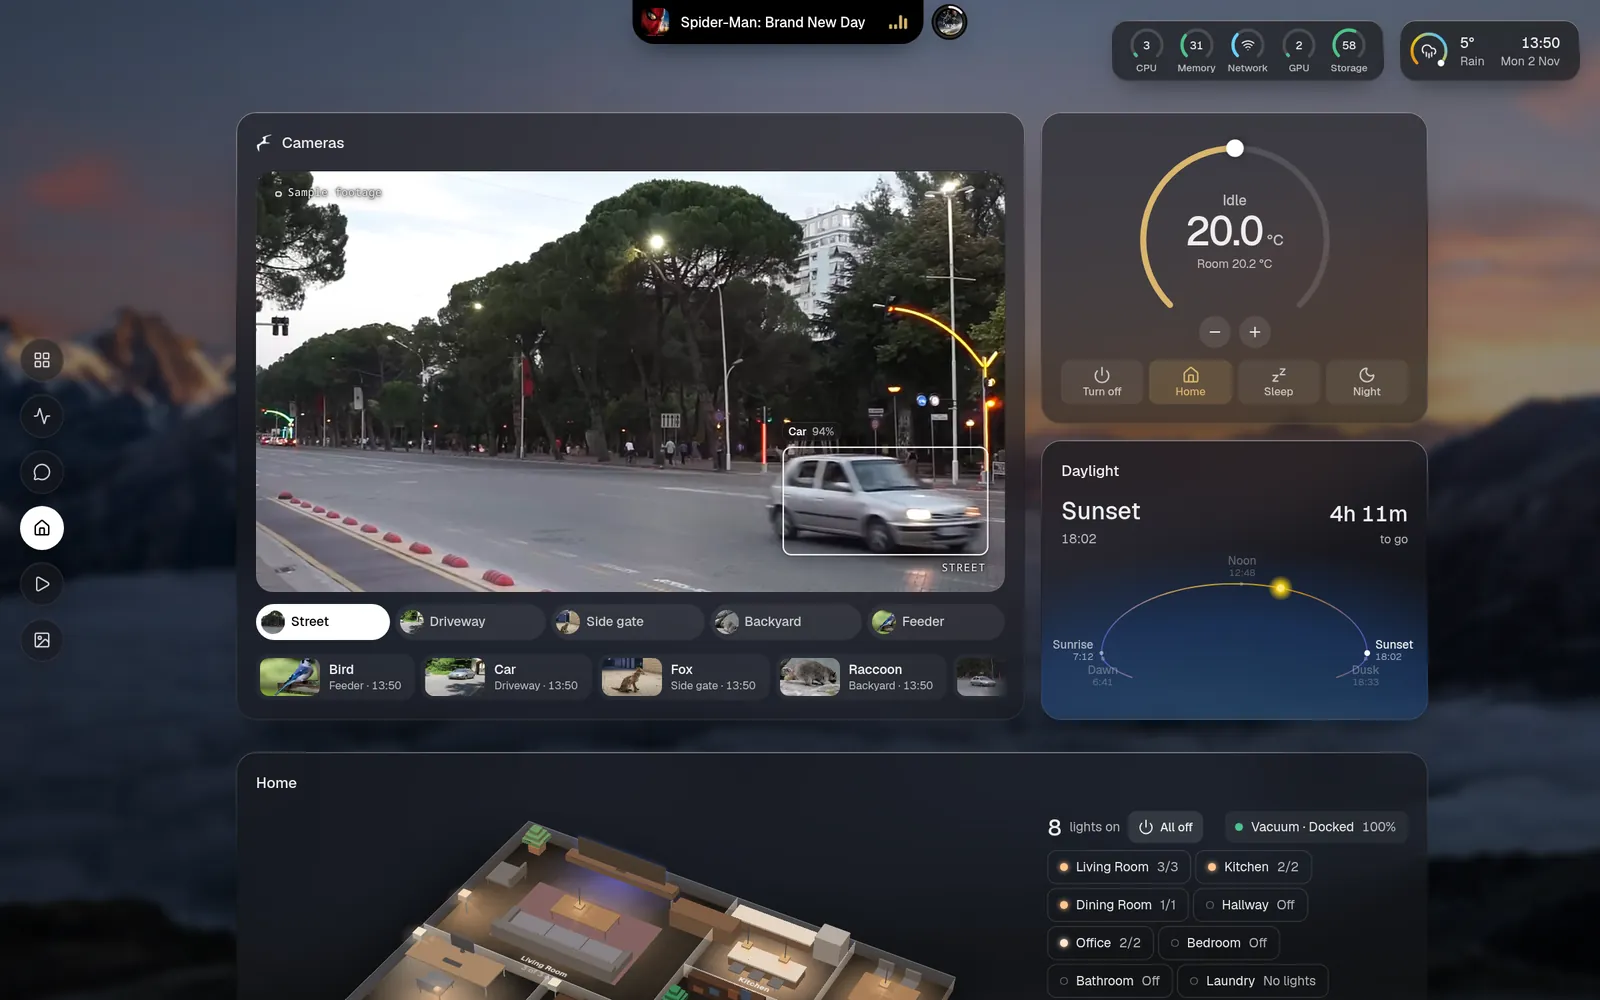
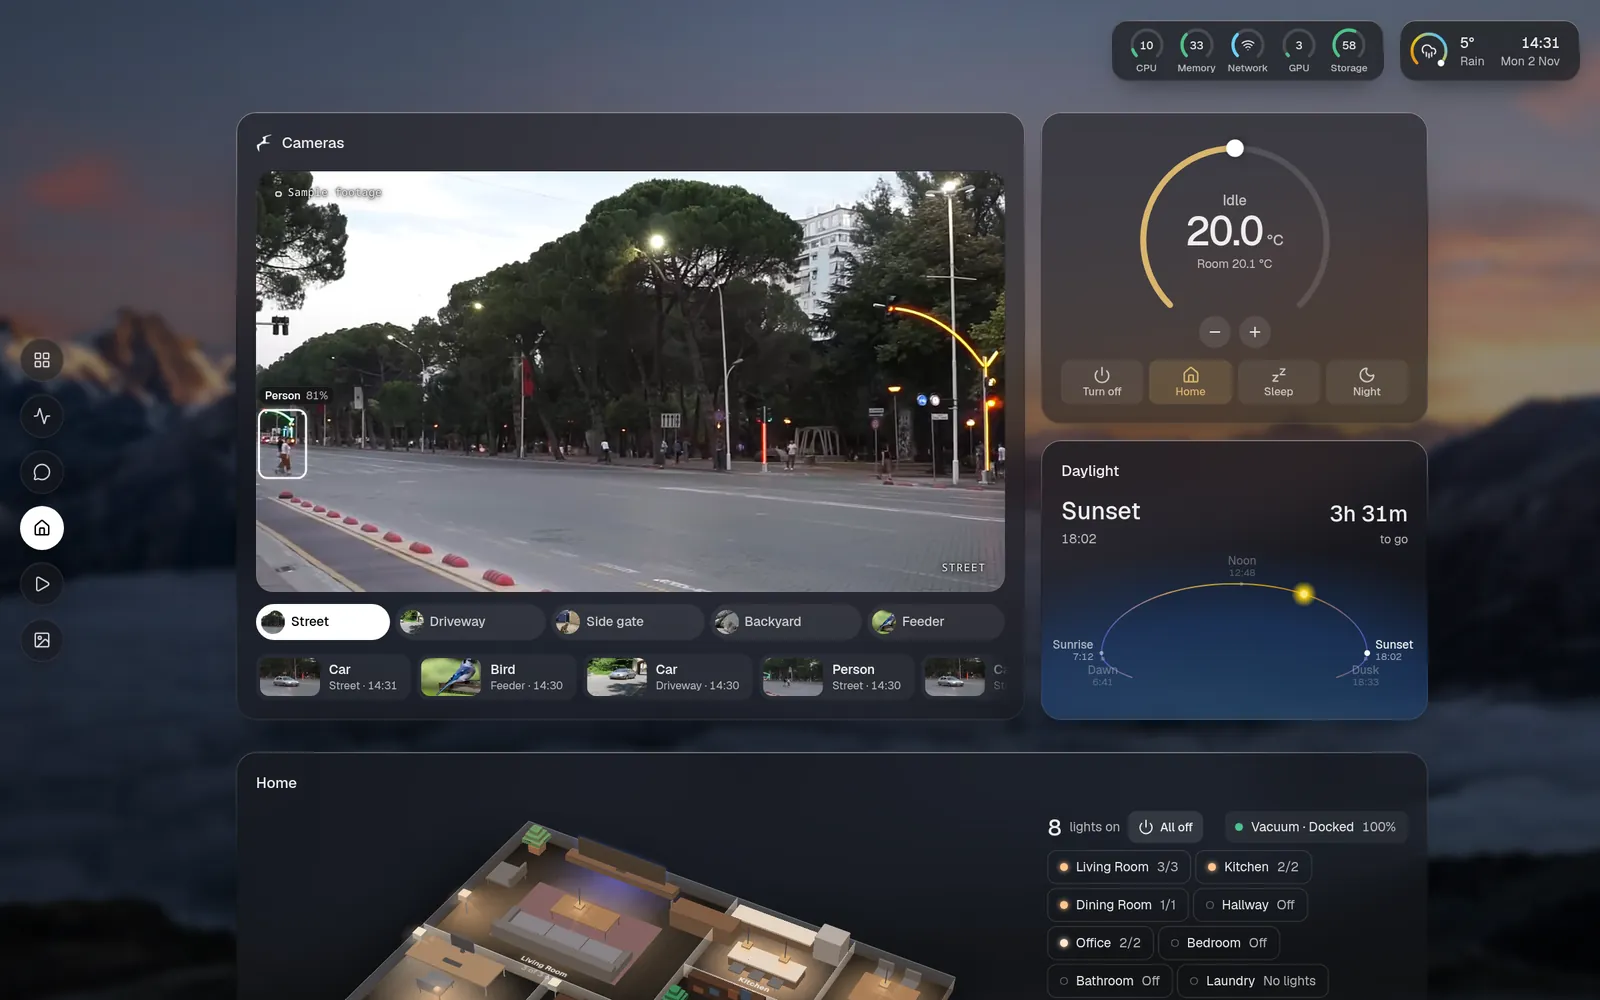
Screenshots: the island only where it's the point

diff --git a/website/scripts/scenes.ts b/website/scripts/scenes.ts
@@ -37,7 +37,10 @@ export async function scenes({ browser, root, repo, out, manifest, problems, sto
     const page = await context.newPage(), cdp = await context.newCDPSession(page);
     return { context, page, cdp };
   };
+  // the island shows what's playing: in the shots about it, not in every picture
+  const ISLAND = new Set(['scene/overview', 'scene/overview-full', 'scene/island', 'scene/island-open', 'scene/phone']);
   const shot = async (page: any, cdp: any, id: string, box?: any, pad = 16) => {
+    await page.evaluate((show: boolean) => { document.querySelector<HTMLElement>('.island-wrap')?.style.setProperty('display', show ? '' : 'none'); }, ISLAND.has(id));
     if (!wanted(id)) return;
     const text = await page.evaluate(() => document.body.innerText);
     if (forbidden.test(text)) problems.push(`${id}: the page text has a forbidden word`);
